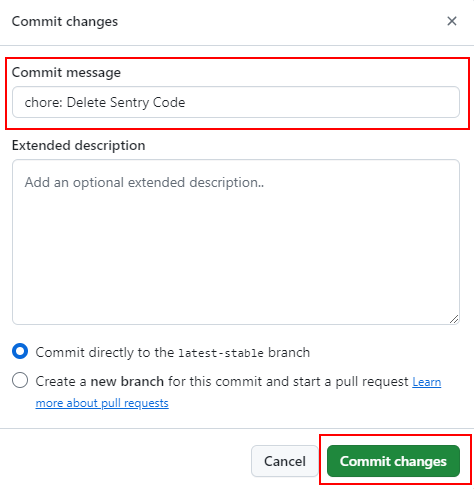
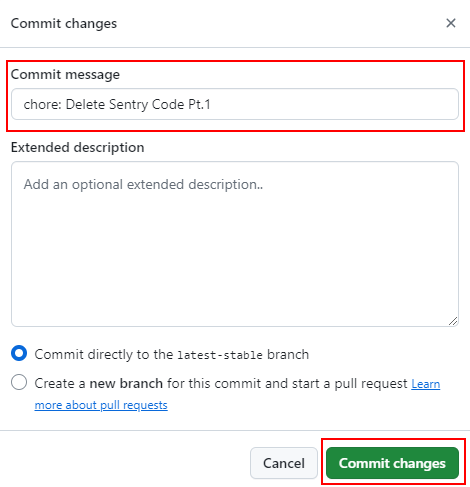
fix: Privacy Build crashing due to source maps
- Instructions were written prior to the logic of passing source maps to sentry to find where in the code caused the issue

diff --git a/docs/personal-privacy-build.md b/docs/personal-privacy-build.md
@@ -56,17 +56,17 @@ In the newly created forked repository, click the `Actions` tab and then the `I 
 
 ## Step 4: Create branch for latest version of the app (includes pre-release)
 
-Now, click ```Create `latest-stable` Branch``` in the sidebar while in the `Actions` tab. Next click on the `Run workflow` dropdown on the right and click `Run workflow`. Make sure that under `Use workflow from`, `Branch: main` is selected. This will create a new `latest-stable` branch.
+Now, click ``Create `latest-stable` Branch`` in the sidebar while in the `Actions` tab. Next click on the `Run workflow` dropdown on the right and click `Run workflow`. Make sure that under `Use workflow from`, `Branch: main` is selected. This will create a new `latest-stable` branch.
 
 <img src="./assets/personal-privacy-build/create_latest_stable_branch.png" alt="Visual steps on creating the `latest-stable` branch." />
 
 ## Step 5: Removing Sentry code
 
-Go back to the `Code` tab and click the dropdown menu which has `main`. From the dropdown, select the `latest-stable` option.
+There are 2 places where we need to modify some code. Go back to the `Code` tab and click the dropdown menu which has `main`. From the dropdown, select the `latest-stable` option.
 
 <img src="./assets/personal-privacy-build/remove_sentry_1.png" alt="Visual steps on switching to the `latest-stable` branch." />
 
-Then click on the `src` folder, followed by the `app` folder, and then `_layout.tsx`. You should see the following:
+Then click on the `src` folder, followed by the `app` folder, and then `_layout.tsx`. You should see something similar to the following (pay attention to the "breadcrumbs" at the top to make sure you're in the right file):
 
 <img src="./assets/personal-privacy-build/remove_sentry_2.png" alt="Screen that you should see if you followed the steps correctly." />
 
@@ -81,6 +81,14 @@ Delete the code highlighted below.
 Then click the `Commit changes...` button. You then need to fill out the details to create a new commit and then click the `Commit changes` button to save these changes.
 
 <img src="./assets/personal-privacy-build/remove_sentry_5.png" alt="Saving these changes." />
+
+Now, we need to go to the `gradle.properties` file inside the `android` folder. This can be quickly accessed via the sidebar that appeared.
+
+<img src="./assets/personal-privacy-build/remove_sentry_6.png" alt="Going to 2nd file that we need to change." />
+
+Now, we need to change `music.CREATE_PRIVACY_BUILD=false` to `music.CREATE_PRIVACY_BUILD=true` (at the bottom of the file). Commit these changes as well.
+
+<img src="./assets/personal-privacy-build/remove_sentry_7.png" alt="Code that we need to change." />
 
 ### Step 6: Creating APKs without Sentry code
 
